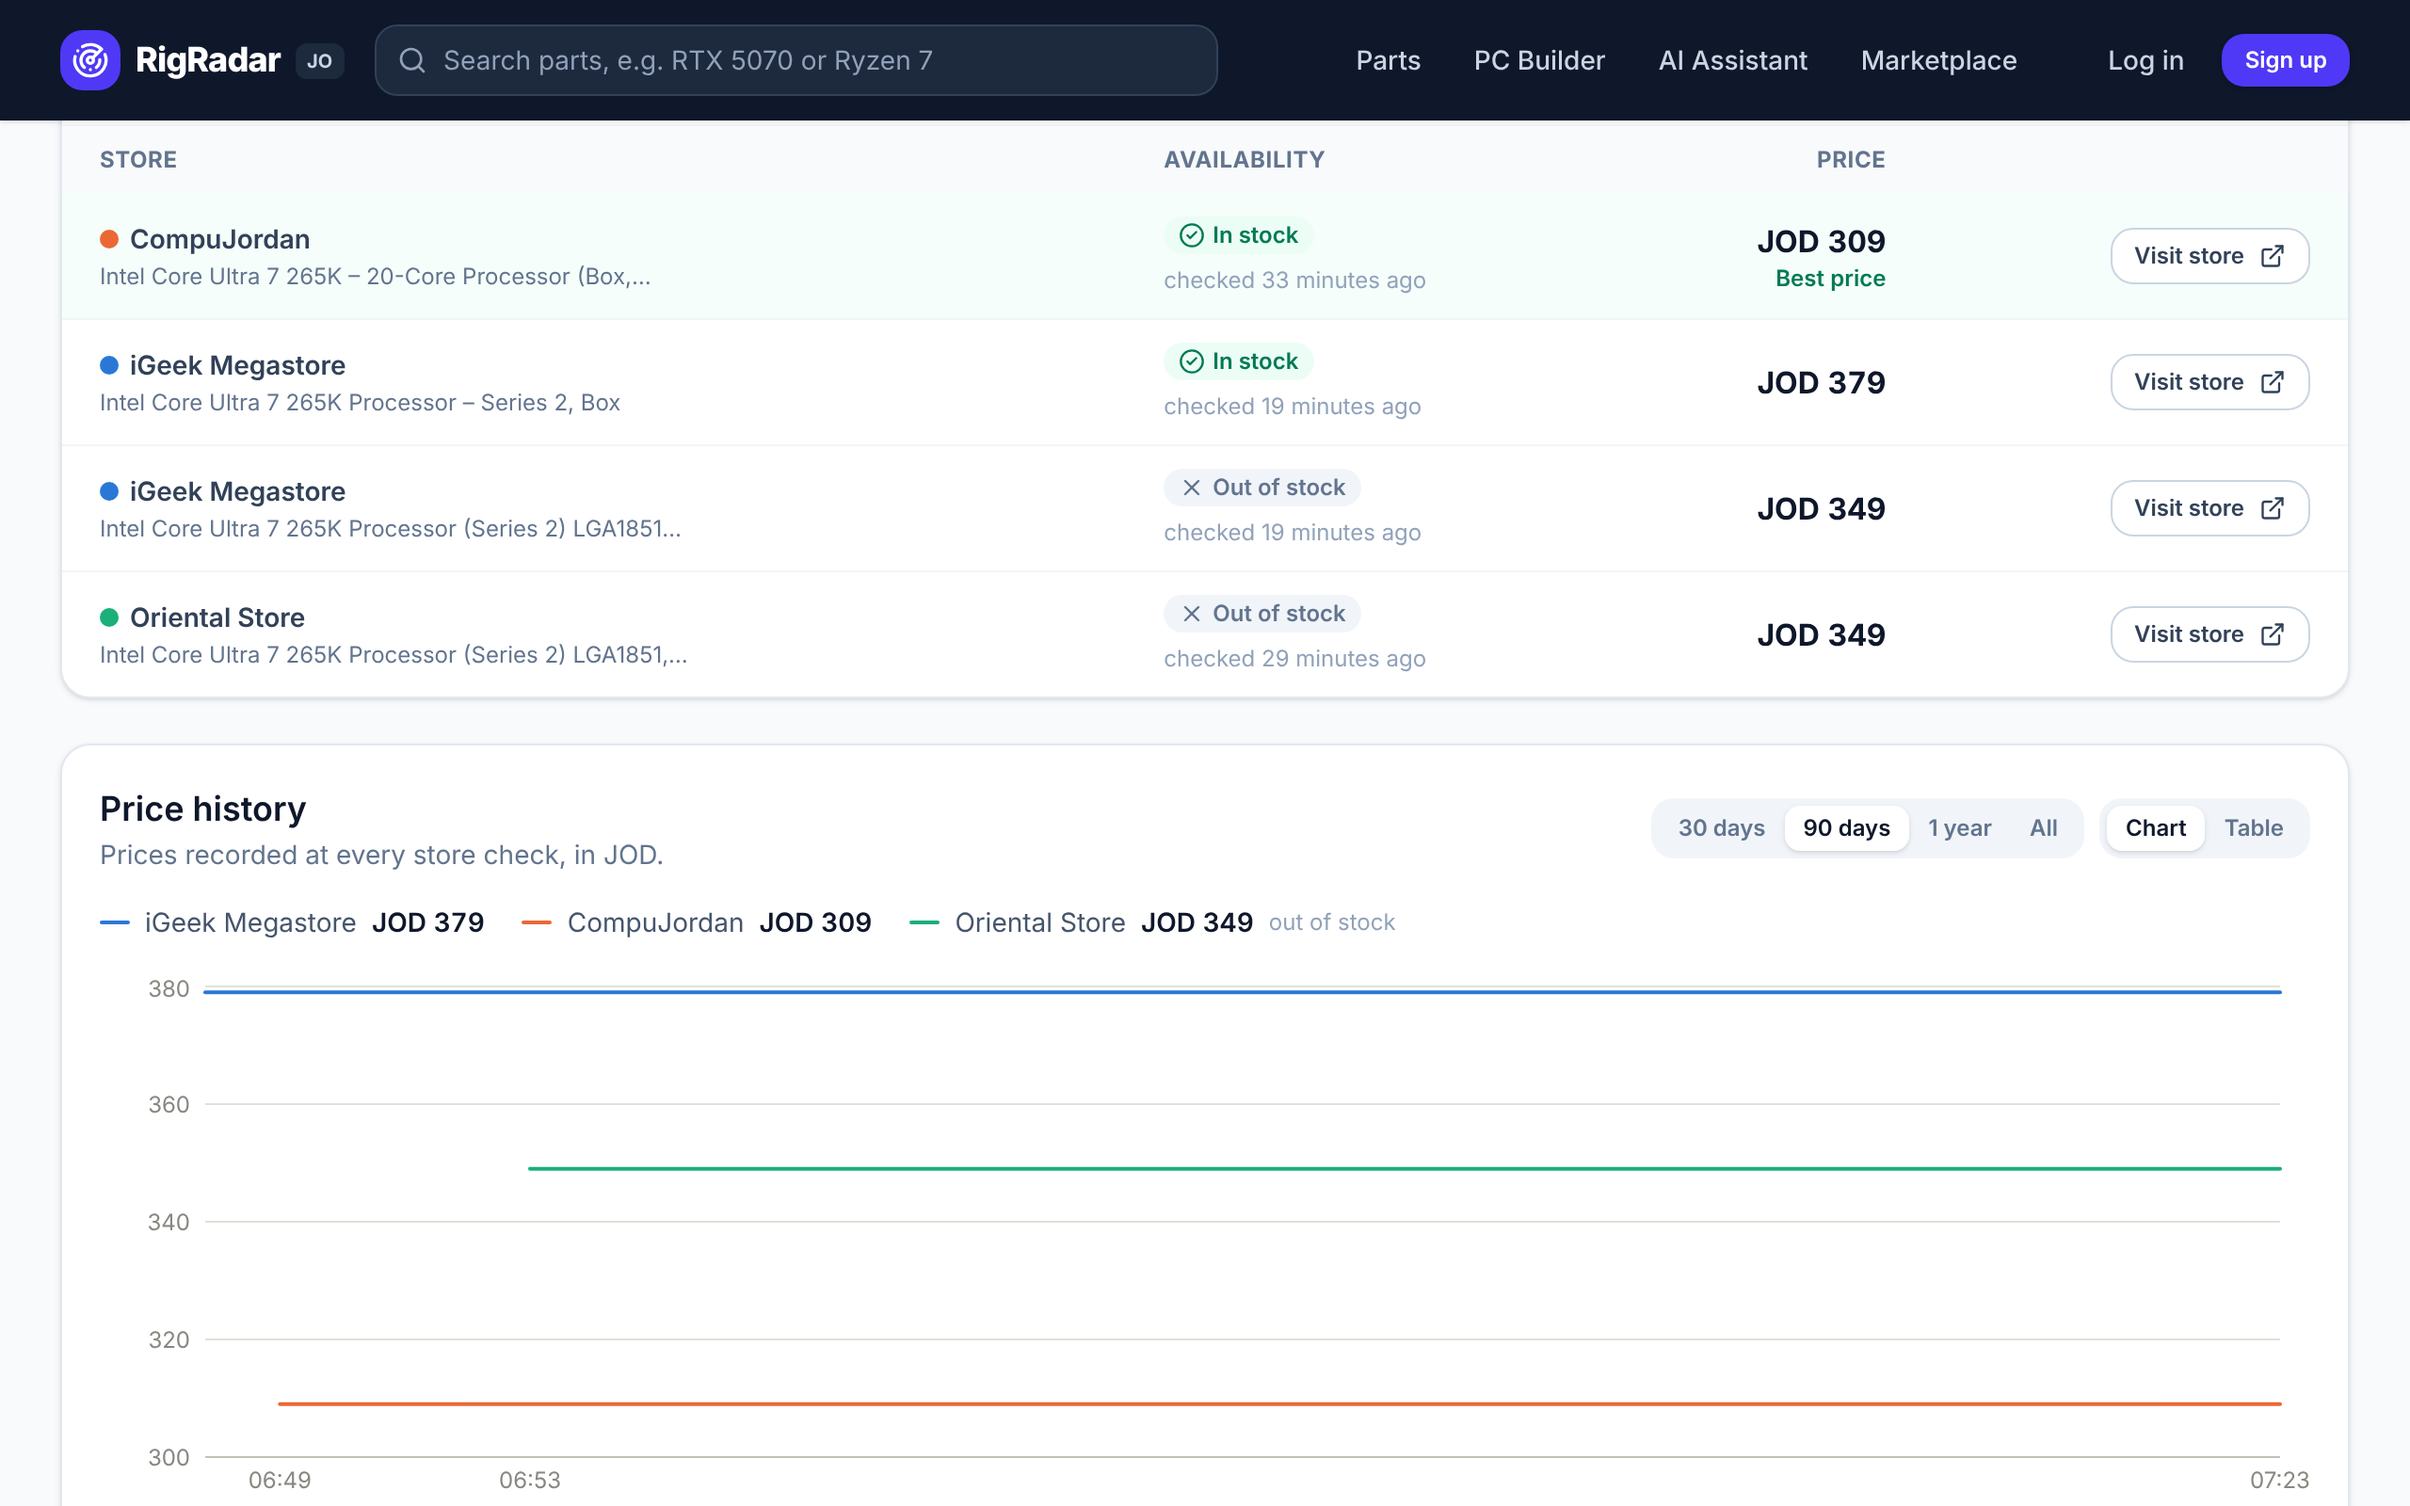
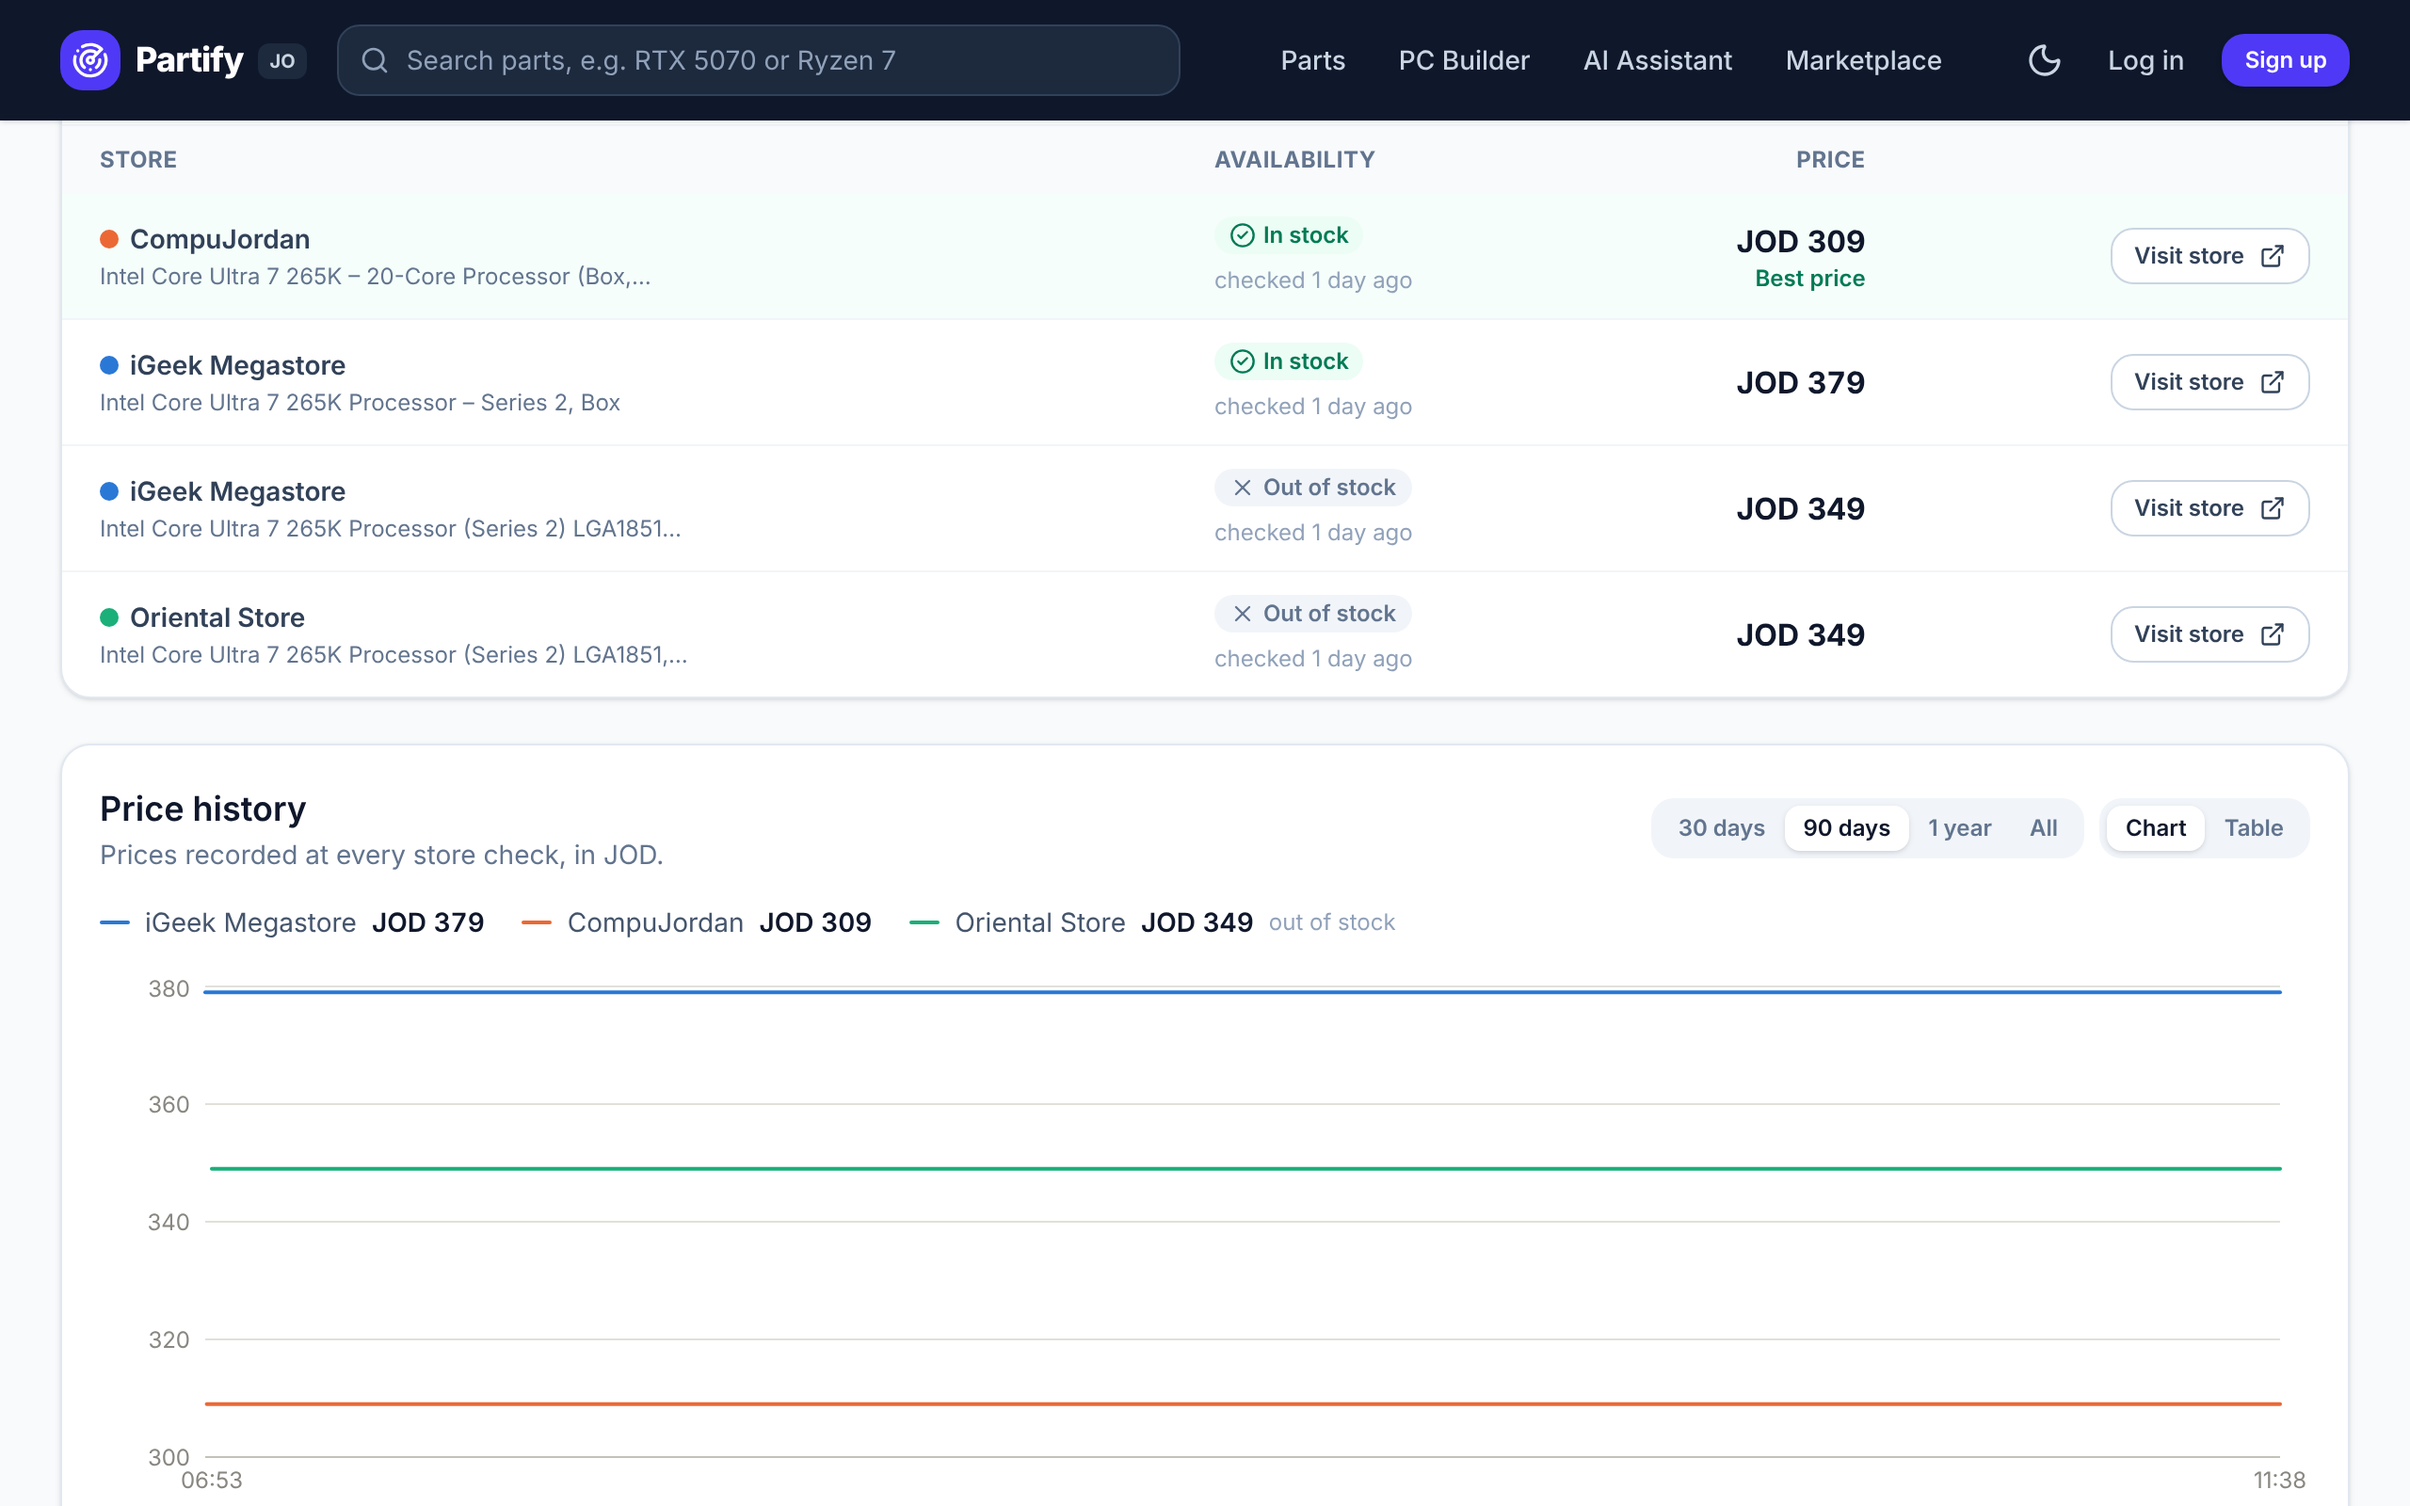
Rename the project from RigRadar to Partify
- UI: header, footer, page title, marketplace text, e-mail subject on listings
- Backend: app name, API title, e-mail sender, scraper user agent (PartifyBot), Celery app name,
  Redis key prefixes, demo-user e-mail domain
- Browser storage keys renamed (partify_*): users are logged out once after the update
- README, docs and README screenshots updated
- The PostgreSQL database/user name stays "rigradar" on purpose: renaming it would orphan
  existing databases (the Docker volume was created under that name)

Claude-Session: https://claude.ai/code/session_015P2sEa6xgEst2ecaQjWaxp

diff --git a/frontend/src/components/Layout.jsx b/frontend/src/components/Layout.jsx
@@ -151,7 +151,7 @@ function Navbar() {
           <span className="rounded-xl bg-indigo-600 p-1.5">
             <Radar className="h-5 w-5" />
           </span>
-          <span className="text-lg font-extrabold tracking-tight">RigRadar</span>
+          <span className="text-lg font-extrabold tracking-tight">Partify</span>
           <span className="hidden rounded-md bg-slate-800 px-1.5 py-0.5 text-[10px] font-bold text-slate-300 sm:inline">JO</span>
         </Link>
         <SearchBox className="hidden max-w-md flex-1 md:block" />
@@ -235,7 +235,7 @@ function Footer() {
       <div className="container-page grid gap-8 py-10 md:grid-cols-3">
         <div>
           <div className="flex items-center gap-2 font-extrabold">
-            <Radar className="h-5 w-5 text-indigo-600 dark:text-indigo-400" /> RigRadar
+            <Radar className="h-5 w-5 text-indigo-600 dark:text-indigo-400" /> Partify
           </div>
           <p className="mt-2 text-sm text-slate-500 dark:text-slate-400">
             Compare PC part prices across Jordanian stores, get alerts when prices drop, plan your build with an AI
@@ -264,7 +264,7 @@ function Footer() {
         </div>
       </div>
       <div className="border-t border-slate-100 dark:border-slate-800 py-4 text-center text-xs text-slate-400">
-        RigRadar · Graduation project · Prices in Jordanian Dinar (JOD)
+        Partify · Graduation project · Prices in Jordanian Dinar (JOD)
       </div>
     </footer>
   );

diff --git a/frontend/src/pages/ListingPage.jsx b/frontend/src/pages/ListingPage.jsx
@@ -97,7 +97,7 @@ export default function ListingPage() {
                 {listing.seller_contact.phone && (
                   <a href={`tel:${listing.seller_contact.phone}`} className="btn btn-primary w-full"><Phone className="h-4 w-4" /> {listing.seller_contact.phone}</a>
                 )}
-                <a href={`mailto:${listing.seller_contact.email}?subject=${encodeURIComponent(`RigRadar: ${listing.title}`)}`} className="btn btn-secondary w-full">
+                <a href={`mailto:${listing.seller_contact.email}?subject=${encodeURIComponent(`Partify: ${listing.title}`)}`} className="btn btn-secondary w-full">
                   <Mail className="h-4 w-4" /> E-mail the seller
                 </a>
               </div>

diff --git a/frontend/index.html b/frontend/index.html
@@ -16,13 +16,13 @@
       // Apply the saved/system theme before the page paints (avoids a white flash in dark mode).
       (function () {
         try {
-          var saved = localStorage.getItem("rigradar_theme");
+          var saved = localStorage.getItem("partify_theme");
           var dark = saved ? saved === "dark" : window.matchMedia("(prefers-color-scheme: dark)").matches;
           if (dark) document.documentElement.classList.add("dark");
         } catch (e) {}
       })();
     </script>
-    <title>RigRadar - PC part prices in Jordan</title>
+    <title>Partify - PC part prices in Jordan</title>
   </head>
   <body>
     <div id="root"></div>

diff --git a/frontend/src/pages/Marketplace.jsx b/frontend/src/pages/Marketplace.jsx
@@ -48,7 +48,7 @@ export default function Marketplace() {
       <div className="flex flex-wrap items-end justify-between gap-4">
         <div>
           <h1 className="text-2xl font-bold tracking-tight sm:text-3xl">Marketplace</h1>
-          <p className="mt-1 text-sm text-slate-500 dark:text-slate-400">Used and new parts sold by RigRadar members across Jordan.</p>
+          <p className="mt-1 text-sm text-slate-500 dark:text-slate-400">Used and new parts sold by Partify members across Jordan.</p>
         </div>
         <Link to="/marketplace/new" className="btn btn-primary"><Plus className="h-4 w-4" /> Sell an item</Link>
       </div>

diff --git a/frontend/src/lib/theme.jsx b/frontend/src/lib/theme.jsx
@@ -5,7 +5,7 @@ import { createContext, useCallback, useContext, useEffect, useMemo, useState } 
 // - After a click the choice is remembered in localStorage.
 // - Dark mode = the "dark" class on <html>; Tailwind's `dark:` variants key off it.
 //   (index.html sets the class before the first paint, so there is no white flash.)
-const KEY = "rigradar_theme";
+const KEY = "partify_theme";
 const systemQuery = () => window.matchMedia("(prefers-color-scheme: dark)");
 
 function storedChoice() {

diff --git a/frontend/src/pages/Assistant.jsx b/frontend/src/pages/Assistant.jsx
@@ -6,7 +6,7 @@ import { ProductCard } from "../components/ProductCard";
 import { api } from "../lib/api";
 import { useApi } from "../lib/useApi";
 
-const KEY = "rigradar_chat";
+const KEY = "partify_chat";
 const SUGGESTIONS = [
   "I want a gaming PC for about 1200 JOD, mostly Valorant and Warzone at 1440p",
   "What's the cheapest RTX 5060 right now?",

diff --git a/frontend/src/lib/build.js b/frontend/src/lib/build.js
@@ -1,7 +1,7 @@
 import { useCallback, useEffect, useState } from "react";
 
 // The PC builder keeps the chosen part ids in localStorage: { cpu: 12, gpu: 40, ... }
-const KEY = "rigradar_build";
+const KEY = "partify_build";
 const EVENT = "build:change";
 
 function read() {

diff --git a/frontend/src/lib/api.js b/frontend/src/lib/api.js
@@ -3,7 +3,7 @@
 // - turns query params objects into ?a=1&b=2 (arrays become repeated keys)
 // - throws ApiError with the server's error message
 
-const TOKEN_KEY = "rigradar_token";
+const TOKEN_KEY = "partify_token";
 
 export function getToken() {
   try {

diff --git a/backend/app/config.py b/backend/app/config.py
@@ -13,7 +13,7 @@ class Settings(BaseSettings):
     model_config = SettingsConfigDict(env_file=".env", extra="ignore")
 
     # --- General ---
-    app_name: str = "RigRadar"
+    app_name: str = "Partify"
     environment: str = "development"
     secret_key: str = "dev-secret-change-me-in-production-please-32+chars"
     access_token_expire_minutes: int = 60 * 24 * 7  # 7 days
@@ -36,7 +36,7 @@ class Settings(BaseSettings):
     # Pause between two page requests to the same store (be polite!).
     scrape_delay_seconds: float = 2.5
     scraper_user_agent: str = (
-        "Mozilla/5.0 (compatible; RigRadarBot/1.0; academic price-comparison project)"
+        "Mozilla/5.0 (compatible; PartifyBot/1.0; academic price-comparison project)"
     )
     scraper_headless: bool = True
     # Only needed when the Playwright browser is installed in a custom location.
@@ -53,7 +53,7 @@ class Settings(BaseSettings):
     smtp_port: int = 587
     smtp_user: str | None = None
     smtp_password: str | None = None
-    smtp_from: str = "RigRadar <alerts@rigradar.local>"
+    smtp_from: str = "Partify <alerts@partify.local>"
     smtp_starttls: bool = True
     smtp_ssl: bool = False
 

diff --git a/backend/app/seed.py b/backend/app/seed.py
@@ -168,7 +168,7 @@ def seed_demo_users(db: Session) -> dict:
     for username, name, city, bio, listings in DEMO_USERS:
         user = db.scalar(select(User).where(User.username == username))
         if user is None:
-            user = User(email=f"{username}@demo.rigradar.local", username=username, display_name=name,
+            user = User(email=f"{username}@demo.partify.local", username=username, display_name=name,
                         city=city, bio=bio, password_hash=hash_password(DEMO_PASSWORD))
             db.add(user)
             db.flush()

diff --git a/backend/app/services/chatbot.py b/backend/app/services/chatbot.py
@@ -81,7 +81,7 @@ TOOLS = [
     {
         "name": "recommend_build",
         "description": (
-            "Build a complete, compatible PC from in-stock parts for a budget, using RigRadar's recommender "
+            "Build a complete, compatible PC from in-stock parts for a budget, using Partify's recommender "
             "(budget split by use case, socket/RAM/PSU/case compatibility checks). Call this when the user wants "
             "a full build or asks what they can get for a budget. Returns the parts, prices, total and notes."
         ),

diff --git a/backend/app/services/ratelimit.py b/backend/app/services/ratelimit.py
@@ -24,7 +24,7 @@ def hit(bucket: str, limit: int, window_seconds: int) -> None:
     """Raise 429 when `bucket` was hit more than `limit` times in the current window.
     If Redis is down the request is allowed (fail open) - availability over strictness."""
     window = int(time.time() // window_seconds)
-    key = f"rigradar:rl:{bucket}:{window}"
+    key = f"partify:rl:{bucket}:{window}"
     try:
         client = _redis()
         count = client.incr(key)
